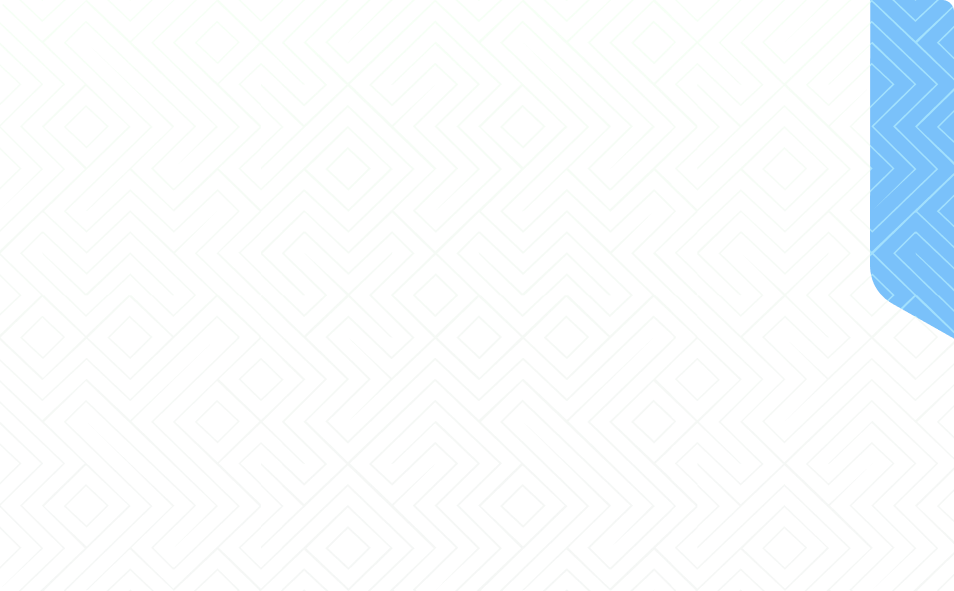
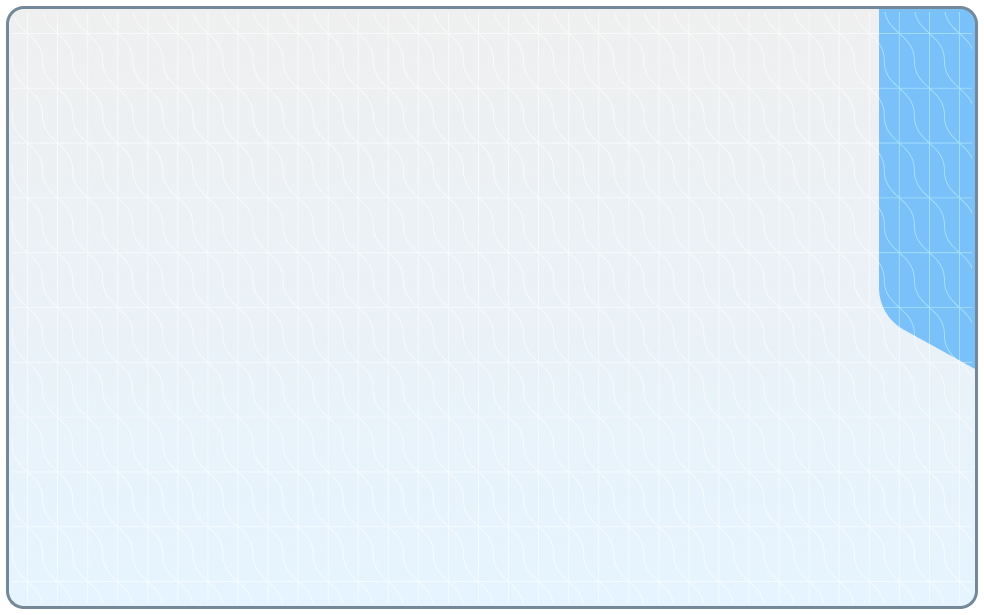
change mocked card img

Changed region(s): [[0.0, 0.0, 1.0, 1.0]]

diff --git a/libs/it-wallet/src/lib/components/credential/CardBackground.tsx b/libs/it-wallet/src/lib/components/credential/CardBackground.tsx
@@ -105,5 +105,5 @@ const credentialCardBackgrounds: {
   [wellKnownCredential.PID]: require('../../../assets/img/cards/pid.png'),
   [wellKnownCredential.DRIVING_LICENSE]: require('../../../assets/img/cards/mdl.png'),
   [wellKnownCredential.DISABILITY_CARD]: require('../../../assets/img/cards/disabilityCard.png'),
-  [wellKnownCredential.PARI_BONUS]: require('../../../assets/img/cards/bonus.png')
+  [wellKnownCredential.BONUS_PARI]: require('../../../assets/img/cards/bonus.png')
 };